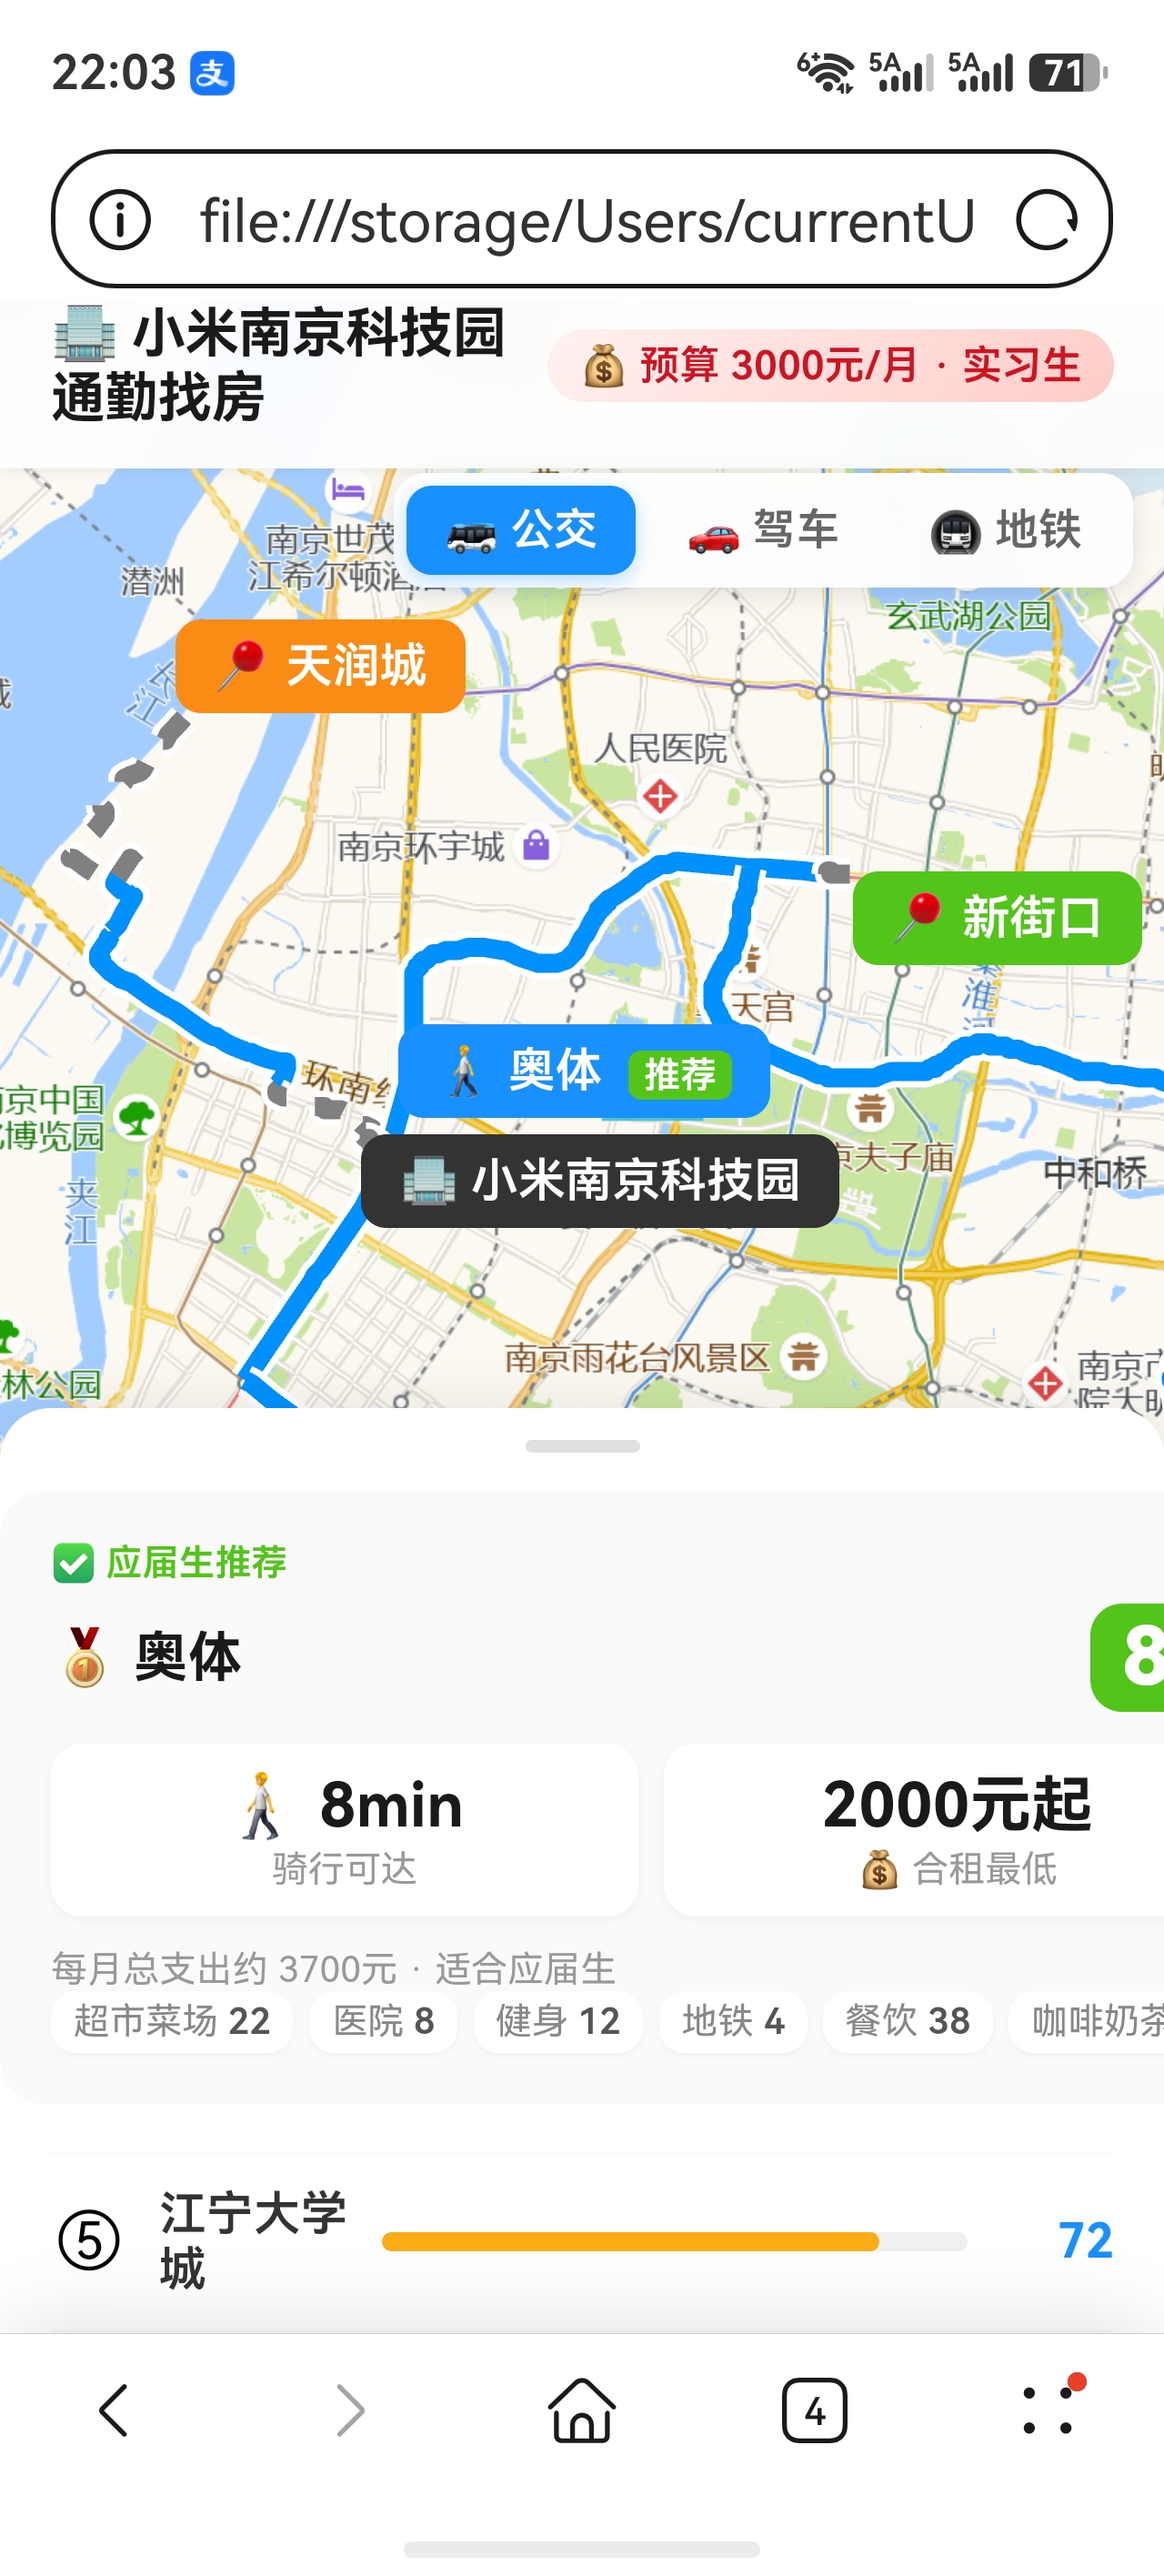
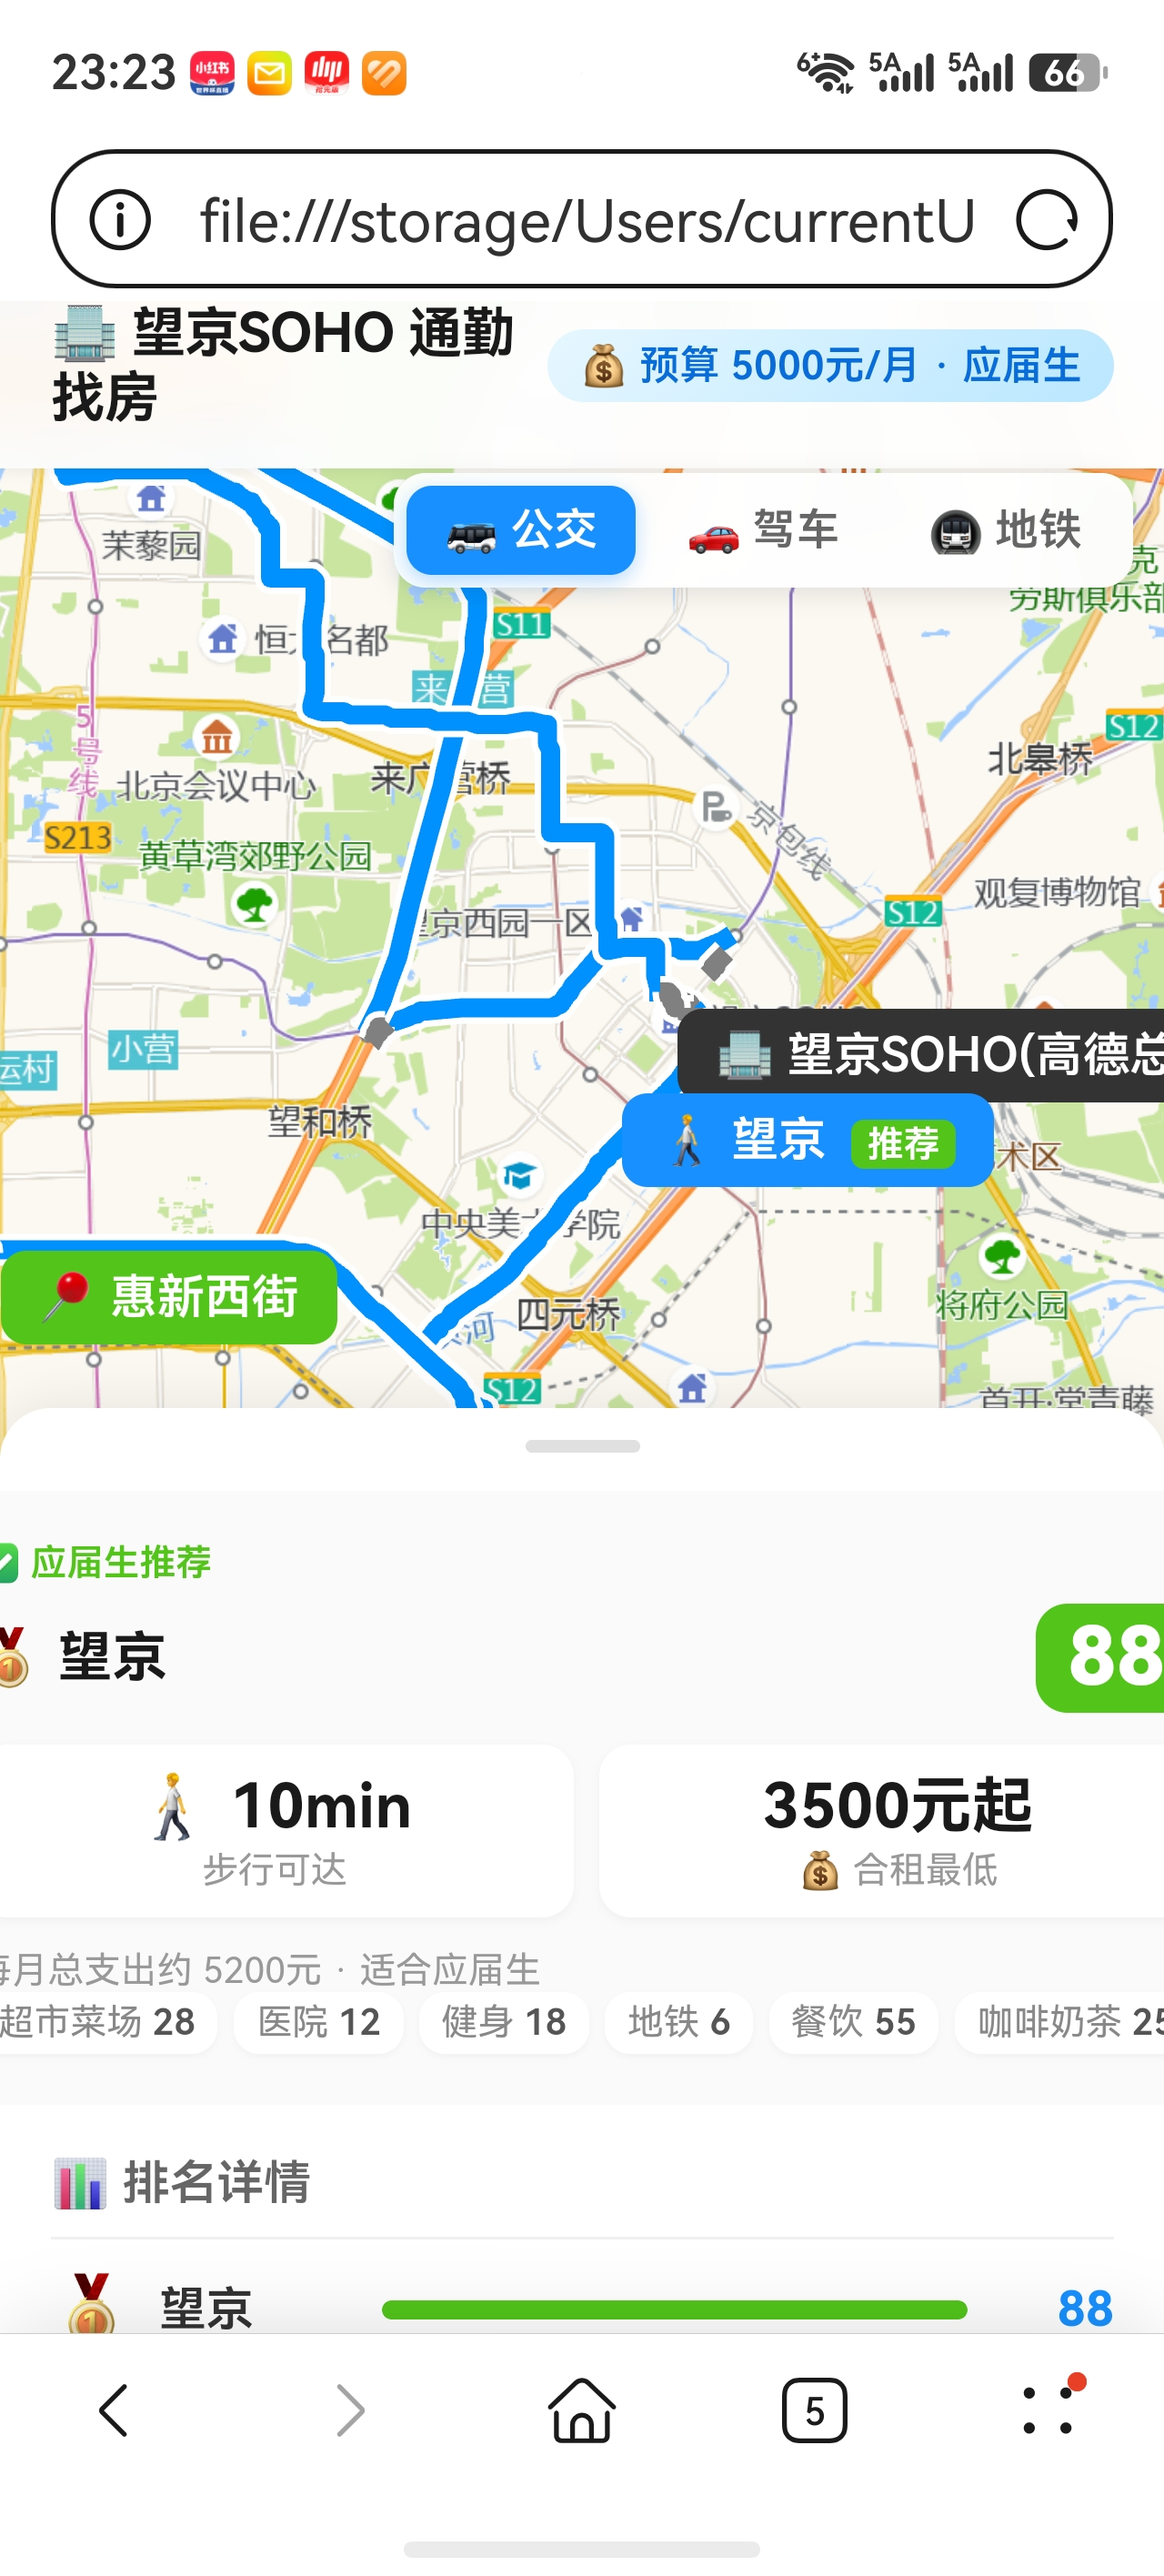
chore: 更新截图，手机端细节图合并为长截图

diff --git a/README.md b/README.md
@@ -53,8 +53,7 @@
 **手机端 · 细节展示**
 
 <p align="center">
-  <img src="docs/mobile-map-detail-1.jpg" alt="手机端细节展示1" width="360">
-  <img src="docs/mobile-map-detail-2.jpg" alt="手机端细节展示2" width="360">
+  <img src="docs/mobile-map-detail.jpg" alt="手机端细节展示" width="360">
 </p>
 
 **手机端 · 房源链接**
@@ -221,8 +220,7 @@ amap-settle-guide/
 │   ├── screenshot-map.png         # 电脑端全图
 │   ├── screenshot-detail.png      # 电脑端细节
 │   ├── mobile-map-link.jpg        # 手机端全图
-│   ├── mobile-map-detail-1.jpg    # 手机端细节1
-│   ├── mobile-map-detail-2.jpg    # 手机端细节2
+│   ├── mobile-map-detail.jpg      # 手机端细节
 │   └── mobile-map-detail-house-link-2.jpg  # 手机端房源链接
 ├── references/                    # 运行时模板
 │   ├── html-template-commute.md   # 交互地图模板
@@ -288,11 +286,10 @@ No scrolling through 10 forum posts. No measuring distances on a map. No spreads
   <img src="docs/mobile-map-link.jpg" alt="Mobile Full Map" width="360">
 </p>
 
-**Mobile · Detail Views**
+**Mobile · Detail View**
 
 <p align="center">
-  <img src="docs/mobile-map-detail-1.jpg" alt="Mobile Detail 1" width="360">
-  <img src="docs/mobile-map-detail-2.jpg" alt="Mobile Detail 2" width="360">
+  <img src="docs/mobile-map-detail.jpg" alt="Mobile Detail" width="360">
 </p>
 
 **Mobile · Housing Links**
